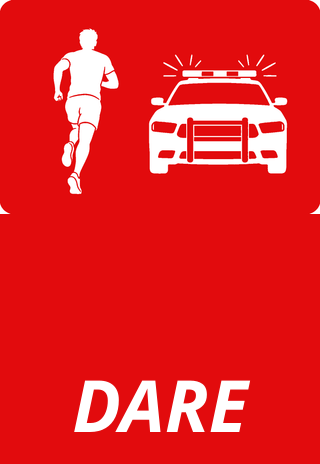
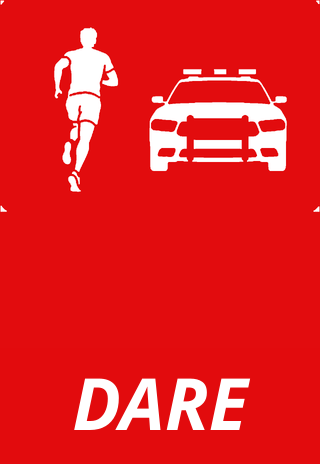
fix(cards): build from screenshot masters; align labels and smooth DARE art
- Use truth-card-master.png / dare-card-master.png as pixel-faithful sources
- Skip margin trim on card-sized masters (fixes TRUTH crop bug)
- Stronger silhouette edge smoothing in DARE art band only
- Shared label vertical alignment between TRUTH and DARE

diff --git a/assets/README.md b/assets/README.md
@@ -7,7 +7,9 @@
 | `truth-card-master.png` | `截圖 2026-06-02 凌晨12.17.19.png`（真心話） |
 | `dare-card-master.png` | `截圖 2026-06-02 凌晨12.17.29.png`（大冒險） |
 
-## Mac 一鍵匯入
+## Mac 一鍵匯入（建議）
+
+將 Cursor 對話中上傳的兩張截圖存到本機後執行：
 
 ```bash
 node scripts/import-card-masters.mjs \
@@ -15,6 +17,8 @@ node scripts/import-card-masters.mjs \
   "/Users/bryanchou/Documents/截圖 2026-06-02 凌晨12.17.29.png"
 npm run build:cards
 ```
+
+或手動複製為 `assets/truth-card-master.png`、`assets/dare-card-master.png` 後執行 `npm run build:cards`。
 
 ## 建置原則
 
